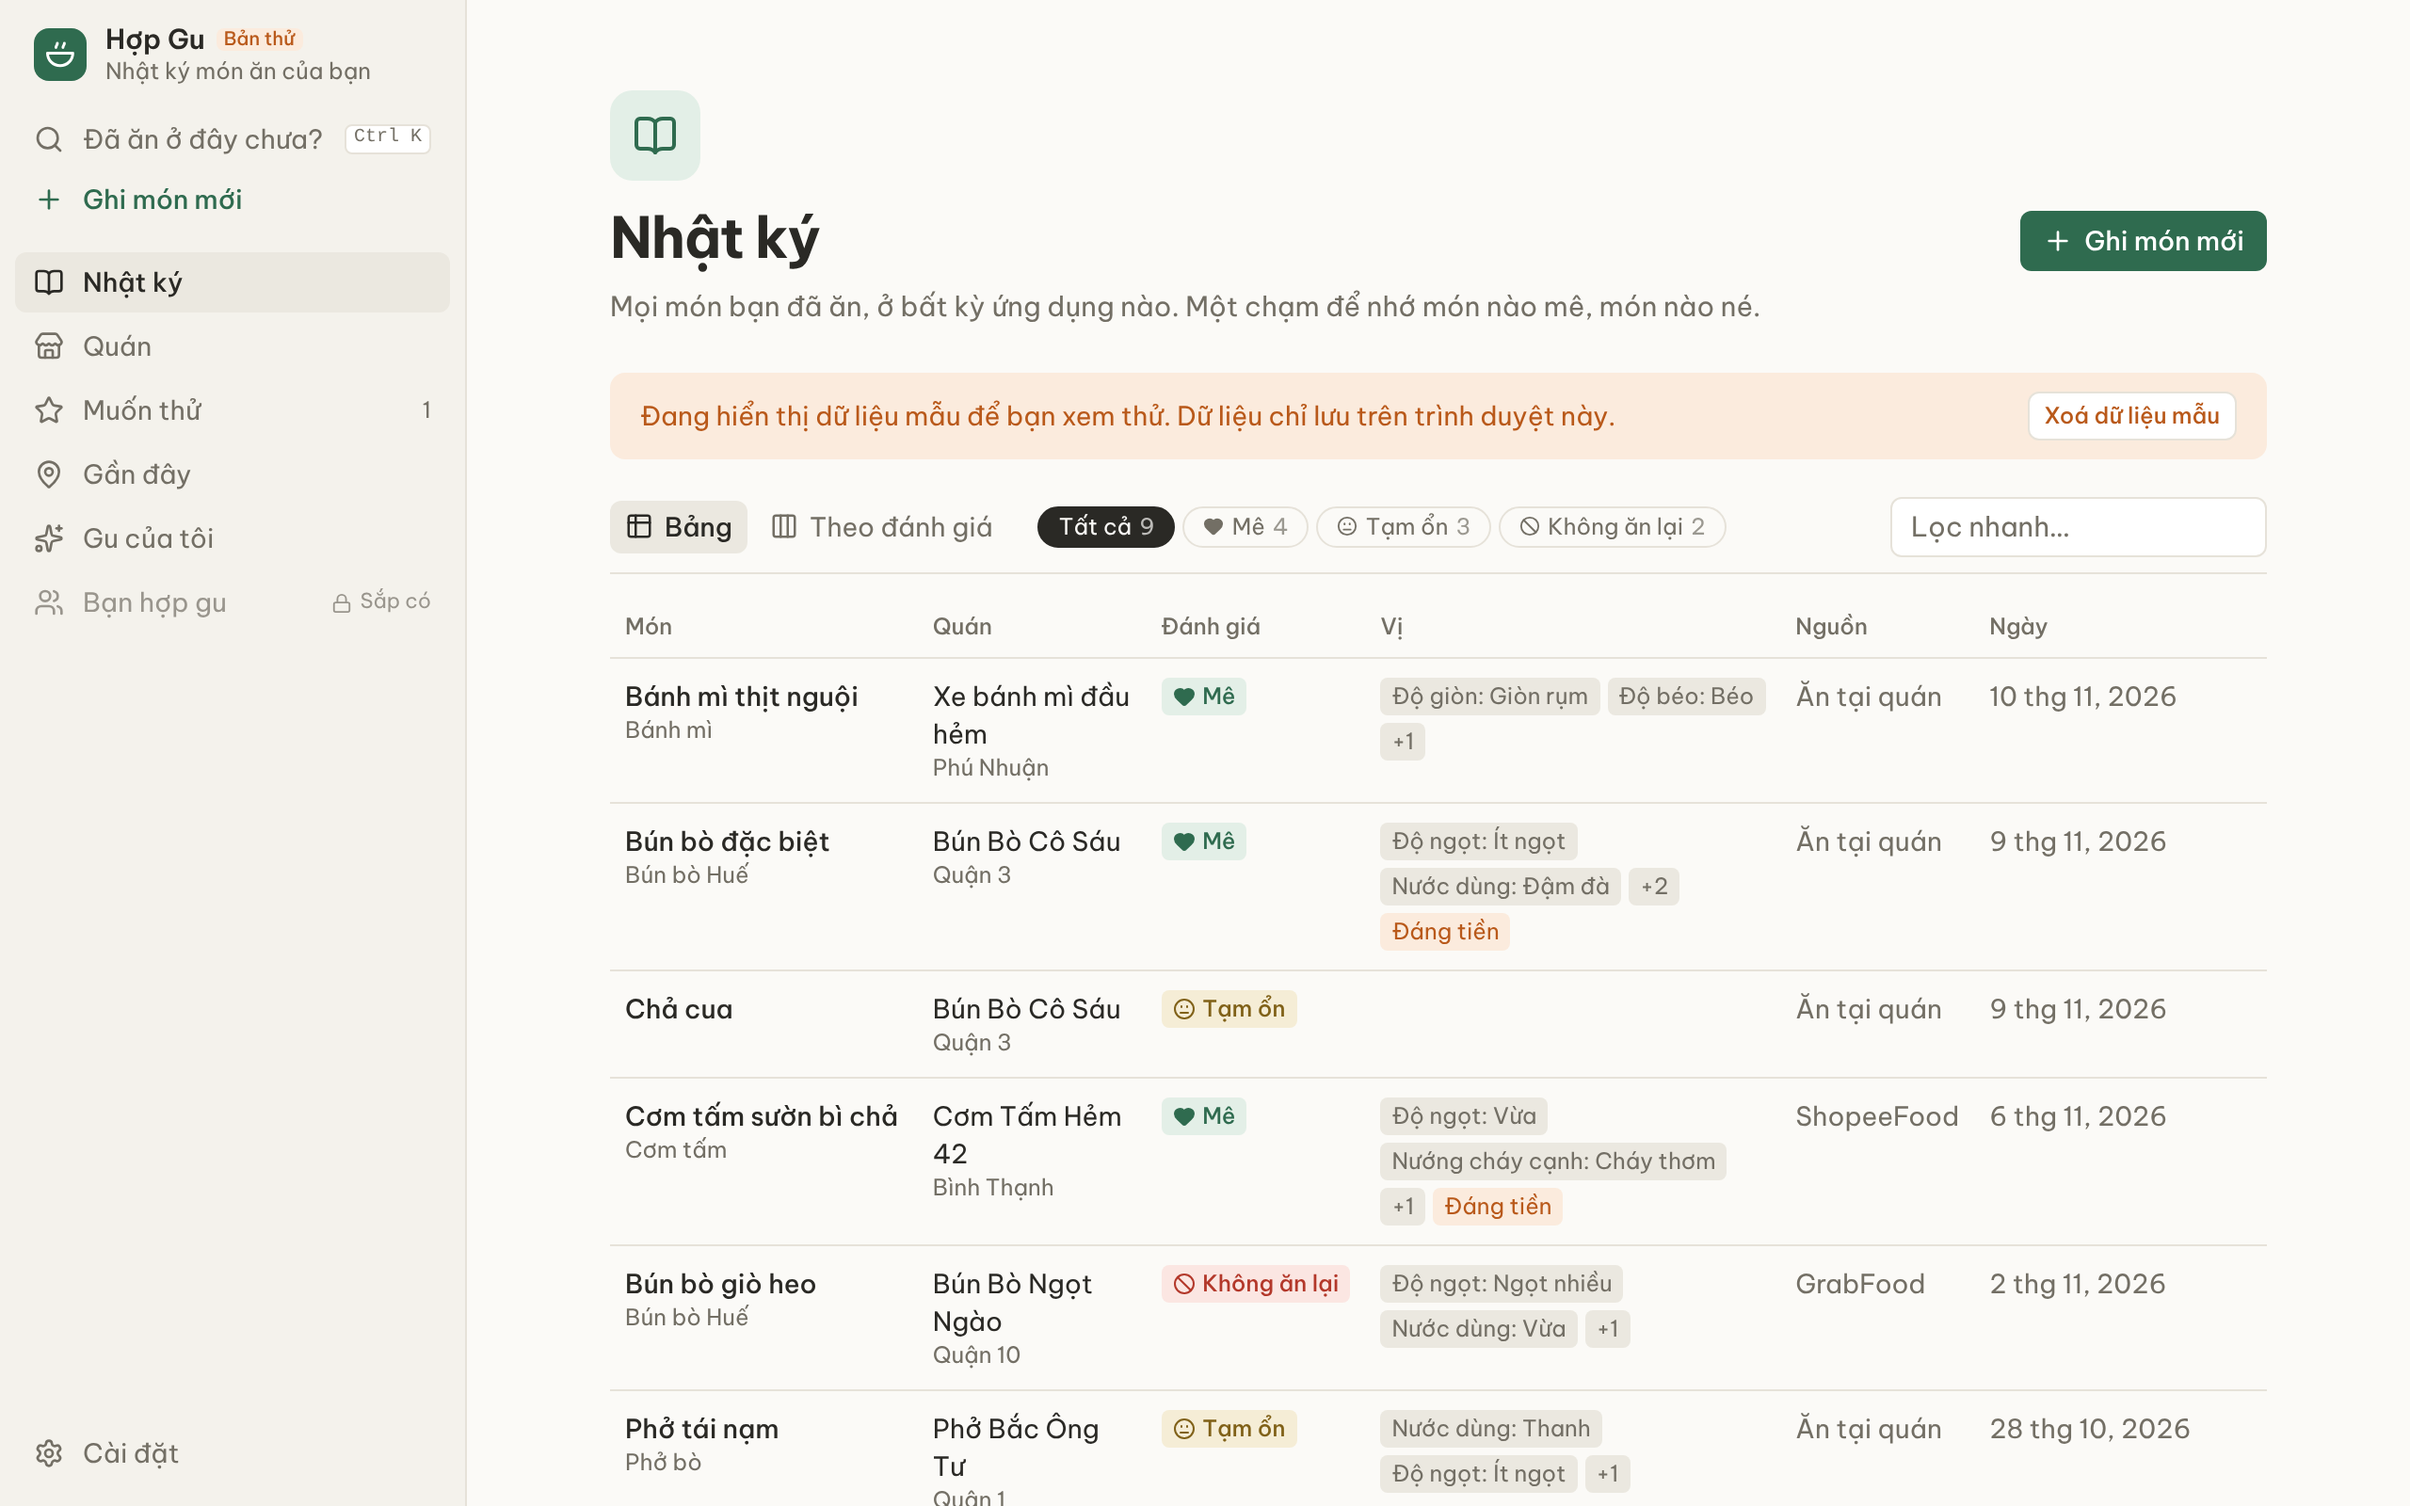
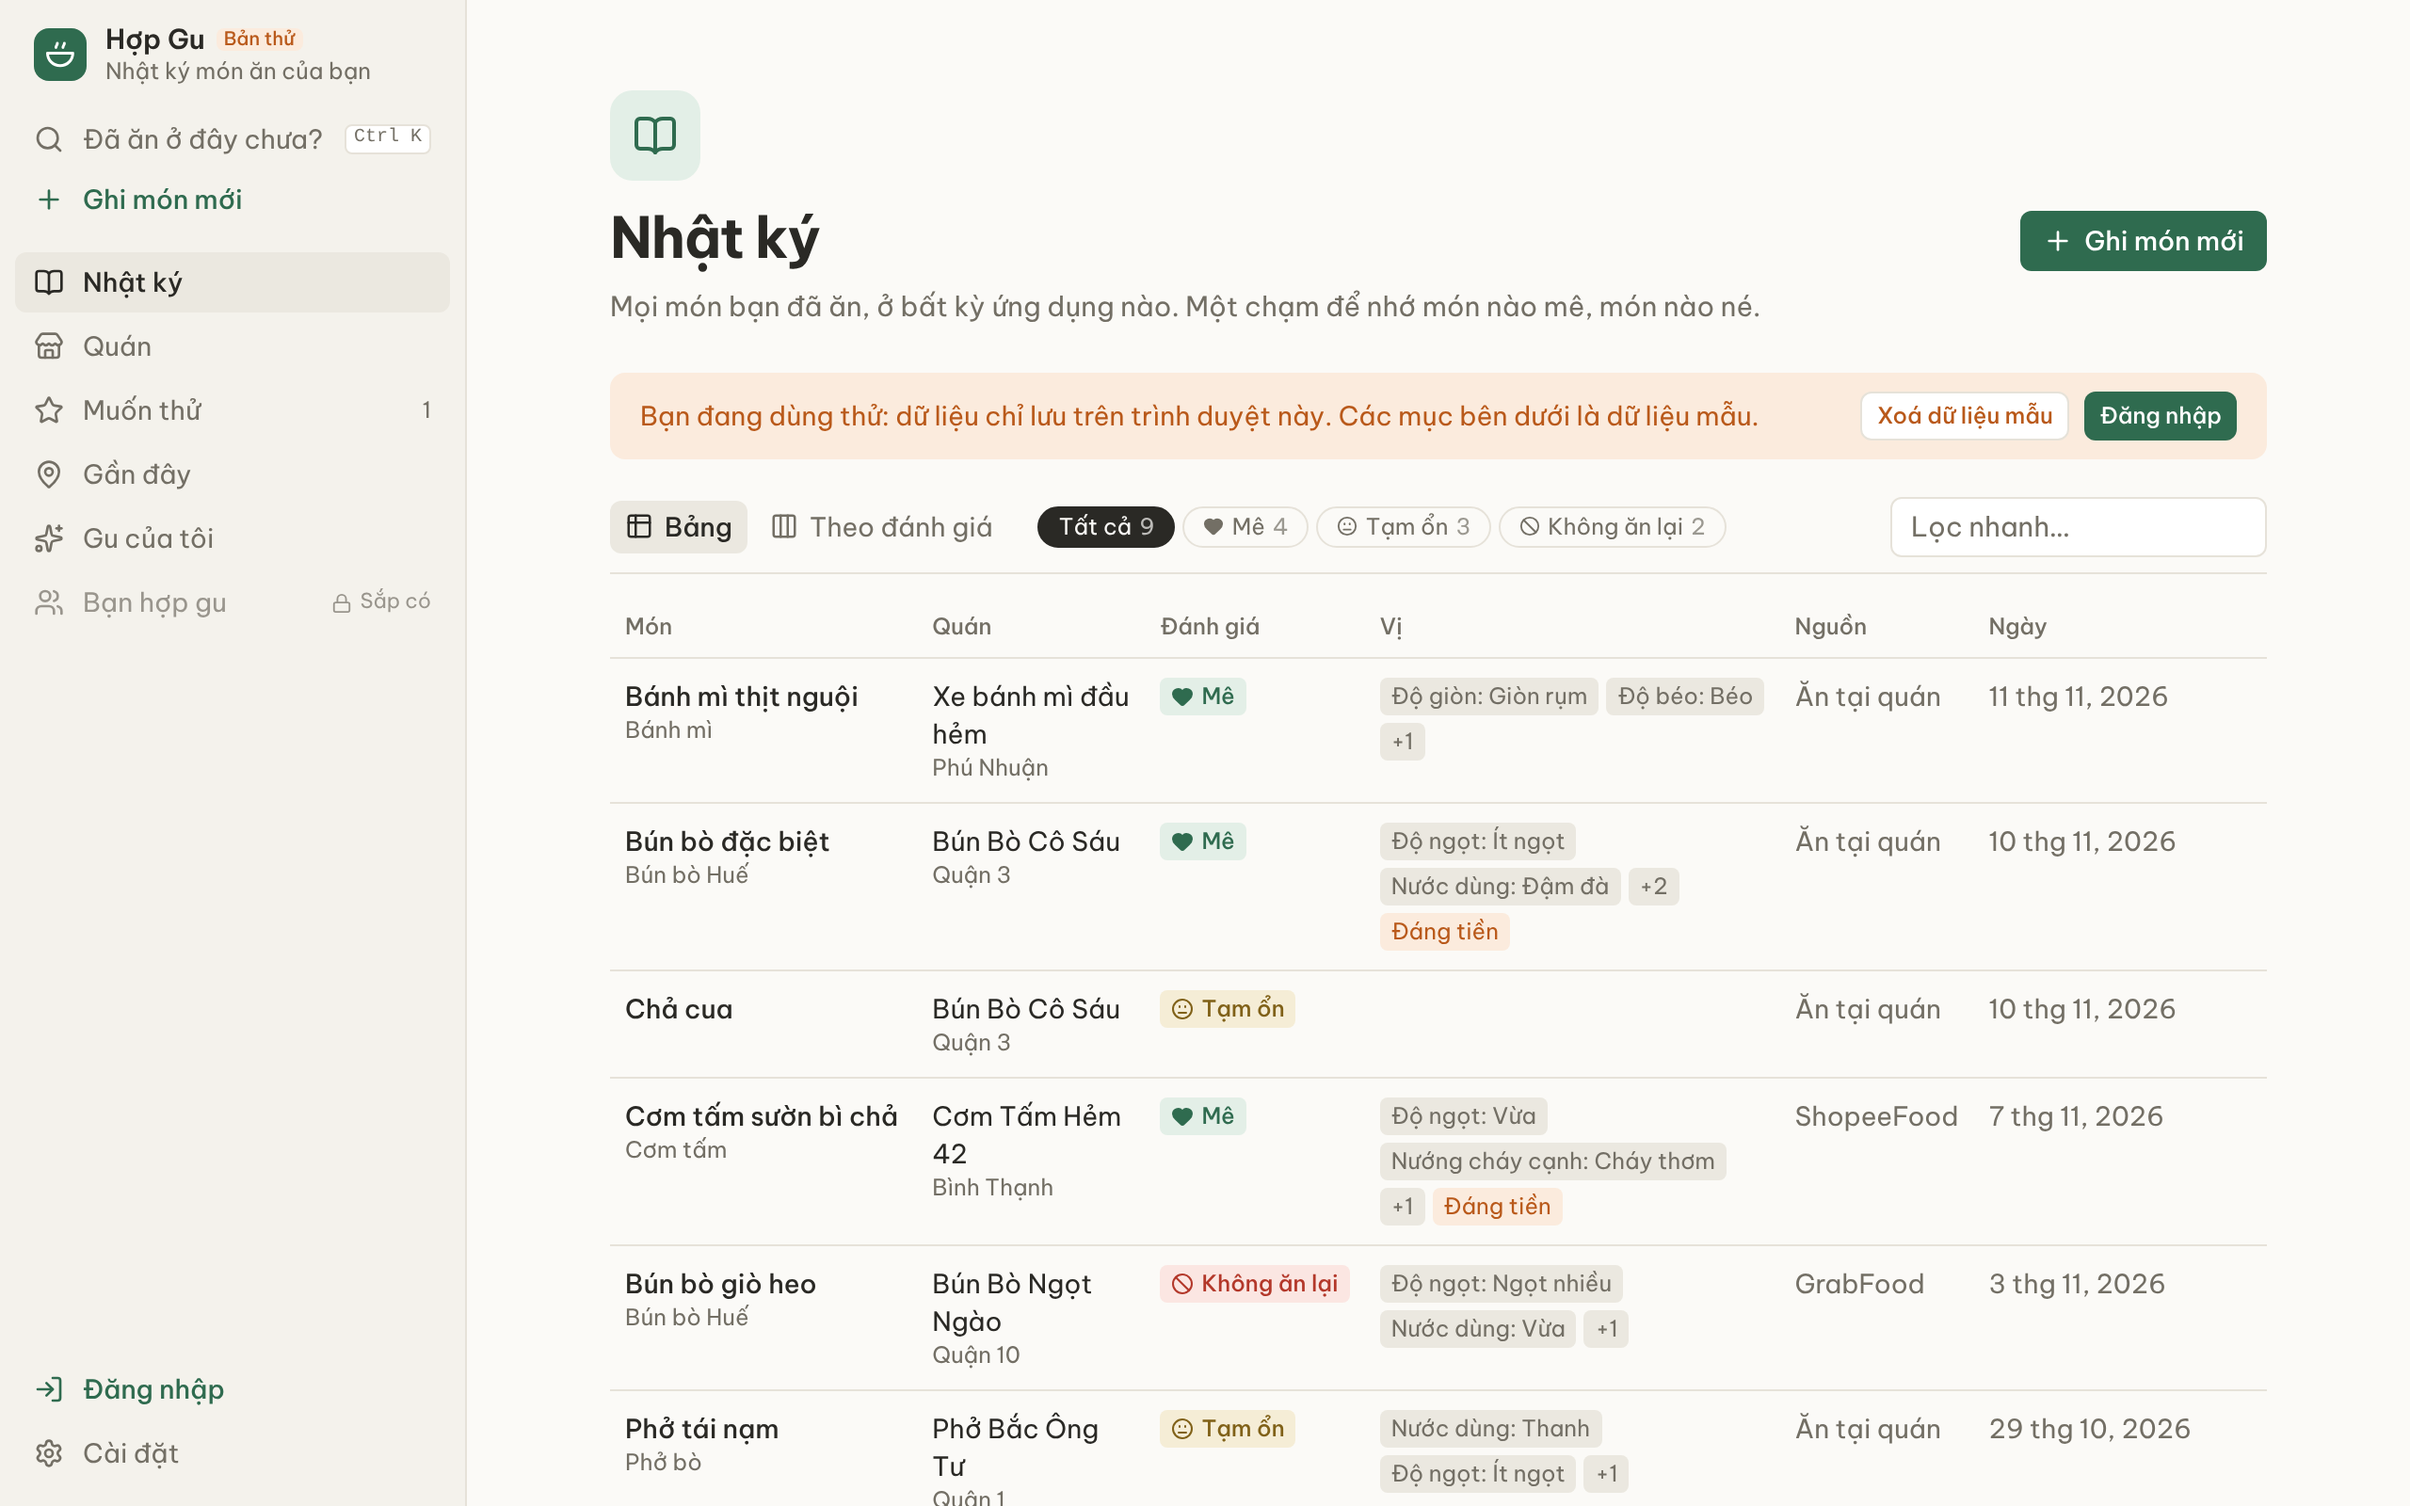
Retheme to oat milk, basil and tomato
Basil green for main actions and Love, tomato red for Never again only,
saffron for highlights, on an oat-milk background. Shades are deepened from
the swatches to keep text contrast at 4.5:1 or better, and the Never again
button text now stays readable in dark mode.

Claude-Session: https://claude.ai/code/session_01RoAGmknfD9rwgeX2yd7G1f

diff --git a/src/app/globals.css b/src/app/globals.css
@@ -1,44 +1,48 @@
 @import "tailwindcss";
 
-/* Theme: herb green for trust and freshness, saffron for appetite, chili red
-   for warnings, on a warm rice-paper background. */
+/* Theme "oat milk, basil, tomato": basil green for trust and freshness (main
+   buttons and Love), tomato red for warnings only (Never again), saffron for
+   highlights, on a warm oat-milk background. Shades are deepened slightly
+   from the swatches so that text stays readable (contrast 4.5:1 or better). */
 :root {
-  --bg: #fbfaf7;
-  --surface: #ffffff;
-  --sidebar: #f4f2ec;
-  --hover: #ebe8e0;
-  --line: #e6e2d9;
-  --ink: #2a2925;
-  --muted: #736f65;
-  --brand: #2f6b4f;
-  --brand-strong: #245540;
-  --brand-soft: #e3efe7;
+  --bg: #faf6ee;
+  --surface: #fffdf8;
+  --sidebar: #efe6d6;
+  --hover: #e5dac7;
+  --line: #e0d5c1;
+  --ink: #2a2722;
+  --muted: #625b50;
+  --brand: #256b3d;
+  --brand-strong: #1c5630;
+  --brand-soft: #dcebdd;
   --on-brand: #ffffff;
-  --accent: #b9591a;
-  --accent-soft: #fbebdd;
-  --danger: #b3382a;
-  --danger-soft: #fbe6e2;
-  --okay: #806118;
-  --okay-soft: #f5edd6;
-  --shadow: 0 12px 40px rgba(42, 41, 37, 0.14);
+  --accent: #984a15;
+  --accent-soft: #f9e6d3;
+  --danger: #b5331b;
+  --danger-soft: #fbe2da;
+  --on-danger: #ffffff;
+  --okay: #7a5c14;
+  --okay-soft: #f3e8c8;
+  --shadow: 0 12px 40px rgba(42, 39, 34, 0.14);
 }
 
 :root[data-theme="dark"] {
-  --bg: #1b1a18;
-  --surface: #232220;
-  --sidebar: #201f1d;
-  --hover: #2e2c29;
-  --line: #37352f;
-  --ink: #ece9e2;
-  --muted: #a39e92;
-  --brand: #74c29b;
-  --brand-strong: #8fd3b0;
-  --brand-soft: #1f3a2e;
+  --bg: #1c1a17;
+  --surface: #24211d;
+  --sidebar: #211e1a;
+  --hover: #302c26;
+  --line: #3a352e;
+  --ink: #eee8dc;
+  --muted: #a69e8f;
+  --brand: #7cc796;
+  --brand-strong: #96d6ac;
+  --brand-soft: #1f3a2a;
   --on-brand: #10231a;
   --accent: #eb9a57;
   --accent-soft: #3d2a1a;
-  --danger: #e87f71;
-  --danger-soft: #40221e;
+  --danger: #f0836c;
+  --danger-soft: #43231c;
+  --on-danger: #2a0f0a;
   --okay: #d8b660;
   --okay-soft: #3a3118;
   --shadow: 0 12px 40px rgba(0, 0, 0, 0.5);
@@ -46,21 +50,22 @@
 
 @media (prefers-color-scheme: dark) {
   :root:not([data-theme="light"]) {
-    --bg: #1b1a18;
-    --surface: #232220;
-    --sidebar: #201f1d;
-    --hover: #2e2c29;
-    --line: #37352f;
-    --ink: #ece9e2;
-    --muted: #a39e92;
-    --brand: #74c29b;
-    --brand-strong: #8fd3b0;
-    --brand-soft: #1f3a2e;
+    --bg: #1c1a17;
+    --surface: #24211d;
+    --sidebar: #211e1a;
+    --hover: #302c26;
+    --line: #3a352e;
+    --ink: #eee8dc;
+    --muted: #a69e8f;
+    --brand: #7cc796;
+    --brand-strong: #96d6ac;
+    --brand-soft: #1f3a2a;
     --on-brand: #10231a;
     --accent: #eb9a57;
     --accent-soft: #3d2a1a;
-    --danger: #e87f71;
-    --danger-soft: #40221e;
+    --danger: #f0836c;
+    --danger-soft: #43231c;
+    --on-danger: #2a0f0a;
     --okay: #d8b660;
     --okay-soft: #3a3118;
     --shadow: 0 12px 40px rgba(0, 0, 0, 0.5);
@@ -83,6 +88,7 @@
   --color-accent-soft: var(--accent-soft);
   --color-danger: var(--danger);
   --color-danger-soft: var(--danger-soft);
+  --color-on-danger: var(--on-danger);
   --color-okay: var(--okay);
   --color-okay-soft: var(--okay-soft);
   --font-sans: "Be Vietnam Pro", ui-sans-serif, system-ui, -apple-system, "Segoe UI", sans-serif;

diff --git a/src/components/ui.tsx b/src/components/ui.tsx
@@ -11,7 +11,7 @@ export const cx = (...parts: (string | false | null | undefined)[]) => parts.fil
 export const VERDICT_STYLE: Record<Verdict, { text: string; soft: string; solid: string; cssVar: string }> = {
   love: { text: "text-brand", soft: "bg-brand-soft text-brand", solid: "bg-brand text-on-brand", cssVar: "var(--brand)" },
   ok: { text: "text-okay", soft: "bg-okay-soft text-okay", solid: "bg-okay-soft text-okay ring-1 ring-okay", cssVar: "var(--okay)" },
-  never: { text: "text-danger", soft: "bg-danger-soft text-danger", solid: "bg-danger text-white", cssVar: "var(--danger)" },
+  never: { text: "text-danger", soft: "bg-danger-soft text-danger", solid: "bg-danger text-on-danger", cssVar: "var(--danger)" },
 };
 
 export function VerdictIcon({ verdict, size = 14 }: { verdict: Verdict; size?: number }) {
